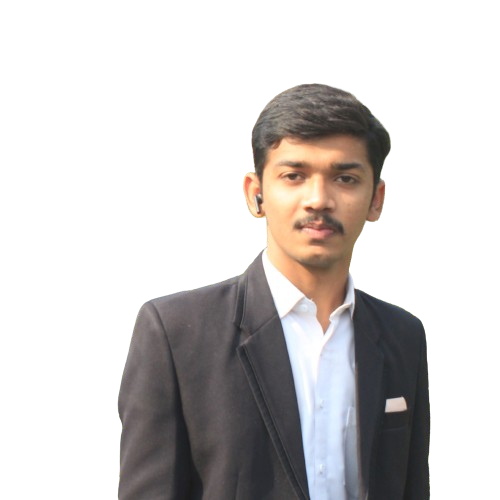
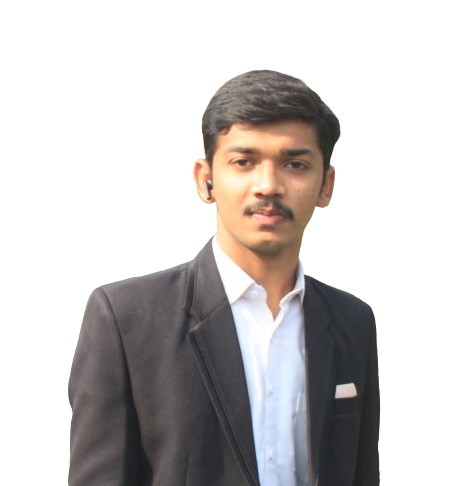
some chnages in portfolio

Changed region(s): [[0.1244, 0.1235, 0.8711, 1.0], [0.7467, 0.5864, 0.7778, 0.6173]]

diff --git a/src/components/Credentails.jsx b/src/components/Credentails.jsx
@@ -2,130 +2,139 @@ import { NavLink } from 'react-router-dom';
 import me from '../components/public/static/images/me.png'
 
 function Credentails() {
-    return (
-      <>
-        <div className="page-transition"></div>
-  
-        <section className="py-100 " >
-          <div className="container">
-            <div className="row d-flex align-items-center justify-content-center">
-              <div className="credentials  d-flex gap-5">
-                <div className="credentail-sidebar-wrap ">
-                  <div className="credentail-sidebar text-center">
-                    <div className="shadow-box">
-                      <div className="img-box">
-                        <img src={me} alt="My Image" className="profile-image" />
-                      </div>
-                      <h3>Ajay Makavana</h3>
-                      <p>@ajaymakavana</p>
-                      <ul className="social-links justify-content-center d-flex">
-                        <li><a href="https://wa.me/9427939719"><i className="bi bi-whatsapp"></i></a></li>
-                        <li><a href="https://x.com/Ajaymakvana473"><i className="bi bi-twitter-x"></i></a></li>
-                        <li><a href="https://www.instagram.com/ajay_mk05/"><i className="bi bi-instagram"></i></a></li>
-                        <li><a href="https://www.facebook.com/ajay.makavana.52643821/"><i className="bi bi-facebook"></i></a></li>
-                      </ul>
-                      <NavLink to="/contact" className="theme-btn text-decoration-none">Contact Me </NavLink>
+  return (
+    <>
+      <div className="page-transition"></div>
+
+      <section className="py-100 " >
+        <div className="container">
+          <div className="row d-flex align-items-center justify-content-center">
+            <div className="credentials  d-flex gap-5">
+              <div className="credentail-sidebar-wrap ">
+                <div className="credentail-sidebar text-center">
+                  <div className="shadow-box">
+                    <div className="img-box">
+                      <img src={me} alt="My Image" className="profile-image" />
                     </div>
+                    <h3>Ajay Makavana</h3>
+                    <p>@ajaymakavana</p>
+                    <ul className="social-links justify-content-center d-flex">
+                      <li><a href="https://wa.me/9427939719"><i className="bi bi-whatsapp"></i></a></li>
+                      <li><a href="https://x.com/Ajaymakvana473"><i className="bi bi-twitter-x"></i></a></li>
+                      <li><a href="https://www.instagram.com/ajay_mk05/"><i className="bi bi-instagram"></i></a></li>
+                      <li><a href="https://www.facebook.com/ajay.makavana.52643821/"><i className="bi bi-facebook"></i></a></li>
+                    </ul>
+                    <NavLink to="/contact" className="theme-btn text-decoration-none">Contact Me </NavLink>
                   </div>
                 </div>
-                <div>
-                  <section>
-                    <div className="container">
-                      <div className="row">
-                        <div className="credential-content">
-                          <div className="credentail-about">
-                            <h3>ABOUT ME</h3>
-                            <p>Sit amet luctussd fav venenatis, lectus magna fringilla inis urna, porttitor rhoncus dolor purus non enim praesent in elementum sahas facilisis leo, vel fringilla est ullamcorper eget nulla facilisi etisam dignissim diam quis enim lobortis viverra orci sagittis eu volutpat odio facilisis mauris sit. Scelerisque fermentum duisi faucibus in ornare quam sisd sit amet luctussd fav venenatis, lectus magna fringilla zac urna, porttitor rhoncus dolor purus non enim praesent cuz elementum sahas facilisis leot.</p>
+              </div>
+              <div>
+                <section>
+                  <div className="container">
+                    <div className="row">
+                      <div className="credential-content">
+                        <div className="credentail-about">
+                          <h3>ABOUT ME</h3>
+                          <p>Sit amet luctussd fav venenatis, lectus magna fringilla inis urna, porttitor rhoncus dolor purus non enim praesent in elementum sahas facilisis leo, vel fringilla est ullamcorper eget nulla facilisi etisam dignissim diam quis enim lobortis viverra orci sagittis eu volutpat odio facilisis mauris sit. Scelerisque fermentum duisi faucibus in ornare quam sisd sit amet luctussd fav venenatis, lectus magna fringilla zac urna, porttitor rhoncus dolor purus non enim praesent cuz elementum sahas facilisis leot.</p>
+                        </div>
+                        <div className="credentail-edu-exp-item credentail-education">
+                          <h3>Education</h3>
+                          <div className="credentail-edu-exp">
+                            <h5>2022 - 2025</h5>
+                            <h4>Bachelor Degree in Computer Application</h4>
+                            <h6>University of Bhagwan Mahavir</h6>
+                            <p>Sit amet luctussd fav venenatis, lectus magna fringilla inis urna, porttitor rhoncus dolor purus non enim praesent in elementum sahas facilisis leo, vel fringilla est ullamcorper eget nulla facilisi etisam dignissim diam quis enim lobortis viverra orci sagittis eu volutpat odio facilisis mauris sit.</p>
                           </div>
-                          <div className="credentail-edu-exp-item credentail-education">
-                            <h3>Education</h3>
-                            <div className="credentail-edu-exp">
-                              <h5>2022 - 2025</h5>
-                              <h4>Bachelor Degree in Computer Application</h4>
-                              <h6>University of Bhagwan Mahavir</h6>
-                              <p>Sit amet luctussd fav venenatis, lectus magna fringilla inis urna, porttitor rhoncus dolor purus non enim praesent in elementum sahas facilisis leo, vel fringilla est ullamcorper eget nulla facilisi etisam dignissim diam quis enim lobortis viverra orci sagittis eu volutpat odio facilisis mauris sit.</p>
+                        </div>
+                        <div className="credentail-edu-exp-item credentail-education">
+                          <div className="credentail-edu-exp">
+                            <h5>2022 - 2024</h5>
+                            <h4>Master Degree in Full Stack Development</h4>
+                            <h6>Red & White Multimedia Education</h6>
+                            <p>Sit amet luctussd fav venenatis, lectus magna fringilla inis urna, porttitor rhoncus dolor purus non enim praesent in elementum sahas facilisis leo, vel fringilla est ullamcorper eget nulla facilisi etisam dignissim diam quis enim lobortis viverra orci sagittis eu volutpat odio facilisis mauris sit.</p>
+                          </div>
+                        </div>
+                        <div className="credentail-edu-exp-item credentail-education">
+                          <h3>Experinace</h3>
+                          <div className="credentail-edu-exp">
+                            <h5>Set-2024 - Jan-2025</h5>
+                            <h4>Full Stack Developer (MERN)</h4>
+                            <h6>Swiftrut Technologies (US shift)</h6>
+                            <p>Sit amet luctussd fav venenatis, lectus magna fringilla inis urna, porttitor rhoncus dolor purus non enim praesent in elementum sahas facilisis leo, vel fringilla est ullamcorper eget nulla facilisi etisam dignissim diam quis enim lobortis viverra orci sagittis eu volutpat odio facilisis mauris sit.</p>
+                          </div>
+                        </div>
+
+                        <div className="skill-wrap">
+                          <h3>SKILLS</h3>
+                          <div className="skill-items d-grid flex-wrap">
+                            <div className="skill-item">
+                              <span className="percent">98%</span>
+                              <h4 className="name">HTML</h4>
                             </div>
-                          </div>
-                          <div className="credentail-edu-exp-item credentail-education">
-                            <div className="credentail-edu-exp">
-                              <h5>2022 - 2024</h5>
-                              <h4>Master Degree in Full Stack Development</h4>
-                              <h6>Red & White Multimedia Education</h6>
-                              <p>Sit amet luctussd fav venenatis, lectus magna fringilla inis urna, porttitor rhoncus dolor purus non enim praesent in elementum sahas facilisis leo, vel fringilla est ullamcorper eget nulla facilisi etisam dignissim diam quis enim lobortis viverra orci sagittis eu volutpat odio facilisis mauris sit.</p>
+                            <div className="skill-item">
+                              <span className="percent">98%</span>
+                              <h4 className="name">CSS</h4>
                             </div>
-                          </div>
-                          <div className="skill-wrap">
-                            <h3>SKILLS</h3>
-                            <div className="skill-items d-grid flex-wrap">
-                              <div className="skill-item">
-                                <span className="percent">90%</span>
-                                <h4 className="name">HTML</h4>
-                              </div>
-                              <div className="skill-item">
-                                <span className="percent">90%</span>
-                                <h4 className="name">CSS</h4>
-                              </div>
-                              <div className="skill-item">
-                                <span className="percent">60%</span>
-                                <h4 className="name">JAVASCRIPT</h4>
-                              </div>
-                              <div className="skill-item">
-                                <span className="percent">95%</span>
-                                <h4 className="name">BOOTSTRAP</h4>
-                              </div>
-                              <div className="skill-item">
-                                <span className="percent">80%</span>
-                                <h4 className="name">JQUERY</h4>
-                              </div>
-                              <div className="skill-item">
-                                <span className="percent">60%</span>
-                                <h4 className="name">C Langauage</h4>
-                              </div>
-                              <div className="skill-item">
-                                <span className="percent">70%</span>
-                                <h4 className="name">C++</h4>
-                              </div>
-                              <div className="skill-item">
-                                <span className="percent">50%</span>
-                                <h4 className="name">REACT JS</h4>
-                              </div>
-                              <div className="skill-item">
-                                <span className="percent">80%</span>
-                                <h4 className="name">NODE JS</h4>
-                              </div>
-                              <div className="skill-item">
-                                <span className="percent">90%</span>
-                                <h4 className="name">MongoDB</h4>
-                              </div>
-                              <div className="skill-item">
-                                <span className="percent">95%</span>
-                                <h4 className="name">Express JS</h4>
-                              </div>
-                              <div className="skill-item">
-                                <span className="percent">45%</span>
-                                <h4 className="name">PostgreSQL</h4>
-                              </div>
+                            <div className="skill-item">
+                              <span className="percent">70%</span>
+                              <h4 className="name">JAVASCRIPT</h4>
+                            </div>
+                            <div className="skill-item">
+                              <span className="percent">95%</span>
+                              <h4 className="name">BOOTSTRAP</h4>
+                            </div>
+                            <div className="skill-item">
+                              <span className="percent">80%</span>
+                              <h4 className="name">JQUERY</h4>
+                            </div>
+                            <div className="skill-item">
+                              <span className="percent">60%</span>
+                              <h4 className="name">C Langauage</h4>
+                            </div>
+                            <div className="skill-item">
+                              <span className="percent">70%</span>
+                              <h4 className="name">C++</h4>
+                            </div>
+                            <div className="skill-item">
+                              <span className="percent">80%</span>
+                              <h4 className="name">REACT JS</h4>
+                            </div>
+                            <div className="skill-item">
+                              <span className="percent">80%</span>
+                              <h4 className="name">NODE JS</h4>
+                            </div>
+                            <div className="skill-item">
+                              <span className="percent">90%</span>
+                              <h4 className="name">MongoDB</h4>
+                            </div>
+                            <div className="skill-item">
+                              <span className="percent">95%</span>
+                              <h4 className="name">Express JS</h4>
+                            </div>
+                            <div className="skill-item">
+                              <span className="percent">10%</span>
+                              <h4 className="name">PostgreSQL</h4>
                             </div>
                           </div>
                         </div>
                       </div>
                     </div>
-                  </section>
-                </div>
+                  </div>
+                </section>
               </div>
             </div>
           </div>
-        </section>
-  
-        <script src="css/aos-master/dist/aos.js"></script>
-        <script>
-          AOS.init();
-        </script>
-        <script src="js/all.js"></script>
-        <script src="https://cdn.jsdelivr.net/npm/bootstrap@5.3.3/dist/js/bootstrap.bundle.min.js" integrity="sha384-YvpcrYf0tY3lHB60NNkmXc5s9fDVZLESaAA55NDzOxhy9GkcIdslK1eN7N6jIeHz" crossOrigin="anonymous"></script>
-      </>
-    );
-  }
-  
-  export default Credentails;
-  
+        </div>
+      </section>
+
+      <script src="css/aos-master/dist/aos.js"></script>
+      <script>
+        AOS.init();
+      </script>
+      <script src="js/all.js"></script>
+      <script src="https://cdn.jsdelivr.net/npm/bootstrap@5.3.3/dist/js/bootstrap.bundle.min.js" integrity="sha384-YvpcrYf0tY3lHB60NNkmXc5s9fDVZLESaAA55NDzOxhy9GkcIdslK1eN7N6jIeHz" crossOrigin="anonymous"></script>
+    </>
+  );
+}
+
+export default Credentails;

diff --git a/src/components/Home.jsx b/src/components/Home.jsx
@@ -125,7 +125,7 @@ function Home() {
                                     <div className="infos mt-4">
                                         <h5>A WEB DEVELOPER</h5>
                                         <h1>AJAY MAKAVANA</h1>
-                                        <p>I am a Web Developer based in Pune.</p>
+                                        <p>I am a Web Developer based in US.</p>
                                         <a href="#" className="about-btn">
                                             <img src={icon} alt="" className="mt-4" />
                                         </a>
@@ -231,15 +231,15 @@ function Home() {
                                 <div className=" info-box col-6  d-flex  justify-content-center align-items-center gap-2 "
                                     data-aos="zoom-in" data-aos-delay="200" data-aos-duration="2000">
                                     <div className="client-item col-4">
-                                        <h2>00</h2>
-                                        <p>Years <br />Experience</p>
+                                        <h2>6+</h2>
+                                        <p>Month <br />Experience</p>
                                     </div>
                                     <div className="client-item col-4">
-                                        <h2>+00</h2>
+                                        <h2>--</h2>
                                         <p>CLIENTS <br />WORLDWIDE</p>
                                     </div>
                                     <div className="client-item col-4">
-                                        <h2>+50</h2>
+                                        <h2>+20</h2>
                                         <p>TOTAL <br />PROJECTS</p>
                                     </div>
                                 </div>

diff --git a/src/index.css b/src/index.css
@@ -33,11 +33,15 @@ ul {
     padding-top: 100px;
     padding-bottom: 100px;
 }
+
 .about-area .icons .icon-stroke {
-    color: #fff; /* White color */
+    color: #fff;
+    /* White color */
     stroke-width: 1.5;
-    stroke: #fff; /* Same color for stroke */
+    stroke: #fff;
+    /* Same color for stroke */
 }
+
 /* Header */
 header {
     padding-top: 10px;
@@ -486,16 +490,23 @@ header nav i {
 .about-inner {
     background: linear-gradient(90deg, #3C58E3 -15%, #C2EBFF 58%, #5AB5E2 97%);
     border-radius: 30px;
-    width: 322px;
-    height: 313px;
+    width: 100%;
+    height: 100%;
+    overflow: hidden;
+
 
 }
 
 .about-inner img {
     border-radius: 30px;
+    display: flex;
+    justify-content: center;
+    align-items: center;
     width: 80%;
     transform: scale(1.4);
+    margin: 0 auto;
     filter: grayscale(90%);
+    object-fit: cover;
     margin-top: 4px;
 }
 
@@ -669,7 +680,7 @@ header nav i {
 }
 
 .about-profile-box .about-contact-box .about-btn {
-    margin-left: 15% ;
+    margin-left: 15%;
     margin-top: 10%;
 }
 
@@ -1229,17 +1240,18 @@ textarea {
     background: linear-gradient(90deg, #3C58E3 -15%, #C2EBFF 58%, #5AB5E2 97%);
     border-radius: 30px;
     margin-bottom: 40px;
-    height: 323px;
-    /* margin: 0; */
+    height: 100%;
+    overflow: hidden;
 }
 
 .credentail-sidebar .img-box img {
     width: 100%;
     height: 100%;
     justify-content: center;
+
     align-items: center;
     display: flex;
-    margin-left: -20px;
+    /* margin-left: -20px; */
     transform: scale(1);
     filter: grayscale(90%);
     object-fit: cover;
